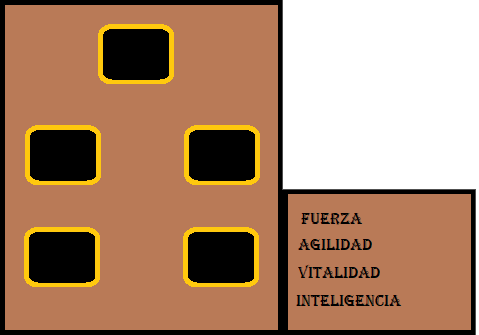
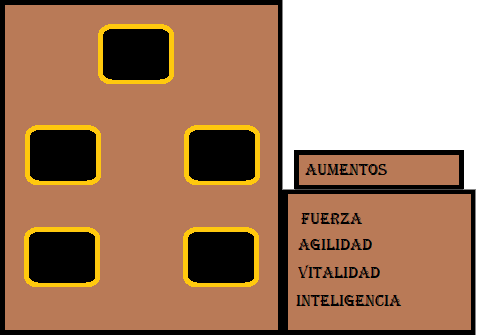
ahora cuando el arquero pasa de nivel gana 5 puntos para aumentar en la interfaz de estadisticas

Changed region(s): [[0.5846, 0.4478, 0.9937, 0.5672]]

diff --git a/js/game.js b/js/game.js
@@ -348,8 +348,8 @@ function cargar_game_js() {
                         borrar = true;
                     }
 
-                    console.log("lase pos y: " + lasers[i].y);
-                    console.log("spider pos y: " + spider.posicion_y);
+                    // console.log("lase pos y: " + lasers[i].y);
+                    // console.log("spider pos y: " + spider.posicion_y);
                     if (spider.hp > 0 && (lasers[i].x >= spider.posicion_x &&
                         lasers[i].x <= (spider.posicion_x + 20))&& (lasers[i].y == spider.posicion_y + 46) && (Interfaz.mod == "coop" || Interfaz.mod == "single" ) &&
                         Escenarios.escenario_actual == "escenario_3") {
@@ -1135,6 +1135,7 @@ function cargar_game_js() {
 
 
     let spider = new Spider(100, 100);
+    // let spider2 = new Spider(100, 100);
     //spider.dropObject(context);
     let cooldown_animar_spider = 100;
     let spider_attack_cooldown = 0;
@@ -2016,7 +2017,14 @@ switch (Arquero.nivel) {
         if (Arquero.interfaz.estadisticas_abierto == true) {
 
             context.drawImage(Interfaz.imagen_equipamiento_stats.imagen,Interfaz.imagen_equipamiento_stats.posX, Interfaz.imagen_equipamiento_stats.posY);
-            
+            context.fillText(Arquero.puntos_aumento_restante, 534, 275);
+            //Dibuja los botones para agregar puntos
+            if (Arquero.puntos_aumento_restante > 0) {
+                context.drawImage(Interfaz.boton_agregar_puntos.imagen_boton_agregar_puntos, Interfaz.boton_agregar_puntos.fuerza_posicion_x, Interfaz.boton_agregar_puntos.fuerza_posicion_y, Interfaz.boton_agregar_puntos.imagen_boton_agregar_puntos.naturalWidth / 2, Interfaz.boton_agregar_puntos.imagen_boton_agregar_puntos.naturalHeight / 2);
+                context.drawImage(Interfaz.boton_agregar_puntos.imagen_boton_agregar_puntos, Interfaz.boton_agregar_puntos.agilidad_posicion_x, Interfaz.boton_agregar_puntos.agilidad_posicion_y, Interfaz.boton_agregar_puntos.imagen_boton_agregar_puntos.naturalWidth / 2, Interfaz.boton_agregar_puntos.imagen_boton_agregar_puntos.naturalHeight / 2);
+                context.drawImage(Interfaz.boton_agregar_puntos.imagen_boton_agregar_puntos, Interfaz.boton_agregar_puntos.vitalidad_posicion_x, Interfaz.boton_agregar_puntos.vitalidad_posicion_y, Interfaz.boton_agregar_puntos.imagen_boton_agregar_puntos.naturalWidth / 2, Interfaz.boton_agregar_puntos.imagen_boton_agregar_puntos.naturalHeight / 2);
+                context.drawImage(Interfaz.boton_agregar_puntos.imagen_boton_agregar_puntos, Interfaz.boton_agregar_puntos.inteligencia_posicion_x, Interfaz.boton_agregar_puntos.inteligencia_posicion_y, Interfaz.boton_agregar_puntos.imagen_boton_agregar_puntos.naturalWidth / 2, Interfaz.boton_agregar_puntos.imagen_boton_agregar_puntos.naturalHeight / 2);
+            }
             context.fillText(Stats.arquero.fuerza,490,323);
         }
 

diff --git a/js/levelup.js b/js/levelup.js
@@ -18,41 +18,49 @@ function checkIfLevelUp () {
         case 1: if (Arquero.exp >= Levels.level_1_max_exp) {
             Arquero.nivel += 1;
             Arquero.exp = 0;
+            Arquero.puntos_aumento_restante += 5;
         }
         break;
         case 2: if (Arquero.exp >= Levels.level_2_max_exp) {
             Arquero.nivel += 1;
             Arquero.exp = 0;
+            Arquero.puntos_aumento_restante += 5;
         }
         break;
         case 3: if (Arquero.exp >= Levels.level_3_max_exp) {
             Arquero.nivel += 1;
             Arquero.exp = 0;
+            Arquero.puntos_aumento_restante += 5;
         }
         break;
         case 4: if (Arquero.exp >= Levels.level_4_max_exp) {
             Arquero.nivel += 1;
             Arquero.exp = 0;
+            Arquero.puntos_aumento_restante += 5;
         }
         break;
         case 5: if (Arquero.exp >= Levels.level_5_max_exp) {
             Arquero.nivel += 1;
             Arquero.exp = 0;
+            Arquero.puntos_aumento_restante += 5;
         }
         break;
         case 6: if (Arquero.exp >= Levels.level_6_max_exp) {
             Arquero.nivel += 1;
             Arquero.exp = 0;
+            Arquero.puntos_aumento_restante += 5;
         }
         break;
         case 7: if (Arquero.exp >= Levels.level_7_max_exp) {
             Arquero.nivel += 1;
             Arquero.exp = 0;
+            Arquero.puntos_aumento_restante += 5;
         }
         break;
         case 8: if (Arquero.exp >= Levels.level_8_max_exp) {
             Arquero.nivel += 1;
             Arquero.exp = 0;
+            Arquero.puntos_aumento_restante += 5;
         }
         break;
     }

diff --git a/js/interfaz.js b/js/interfaz.js
@@ -54,6 +54,12 @@ imagen_boton_musica_on.src = "./img/interfaz/imagen_boton_musica_on.png";
 
 let imagen_boton_musica_off = new Image();
 imagen_boton_musica_off.src = "./img/interfaz/imagen_boton_musica_off.png";
+
+let imagen_boton_agregar_puntos = new Image();
+imagen_boton_agregar_puntos.src = "./img/interfaz/interfaz_personaje/boton_agregar_puntos.png";
+
+let imagen_boton_agregar_puntos_onclick = new Image();
+imagen_boton_agregar_puntos_onclick.src = "./img/interfaz/interfaz_personaje/boton_agregar_puntos_onclick.png";
 // let boton_1vs1 = document.createElement("button");
 // boton_1vs1.setAttribute("id", "boton_1vs1");
 // boton_1vs1.innerHTML = "1vs1";
@@ -158,6 +164,20 @@ imagen_boton_musica_off.src = "./img/interfaz/imagen_boton_musica_off.png";
         posX: 923,
         posY: 10
         }
+    },
+
+    "boton_agregar_puntos": {
+        "imagen_boton_agregar_puntos": imagen_boton_agregar_puntos,
+        "imagen_boton_agregar_puntos_onclick": imagen_boton_agregar_puntos_onclick,
+        "fuerza_posicion_x": 537,
+        "fuerza_posicion_y": 310,
+        "agilidad_posicion_x": 537,
+        "agilidad_posicion_y": 337,
+        "vitalidad_posicion_x": 537,
+        "vitalidad_posicion_y": 364,
+        "inteligencia_posicion_x": 537,
+        "inteligencia_posicion_y": 390,
+
     }
     
    

diff --git a/js/arquero.js b/js/arquero.js
@@ -99,6 +99,7 @@ let Arquero = {
     "nivel": 1,
     "gold": 0,
     "exp": 0,
+    "puntos_aumento_restante": 0,
 
     
     
